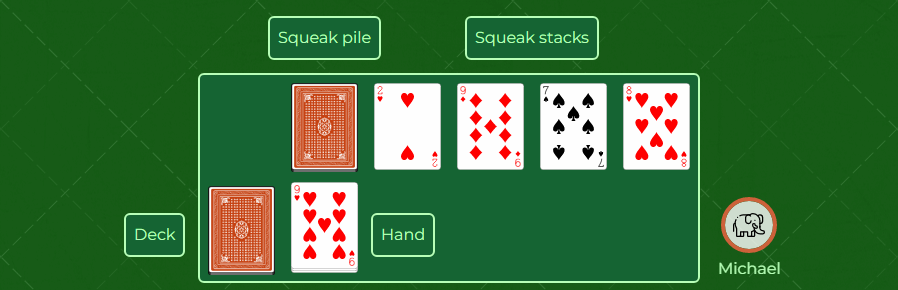
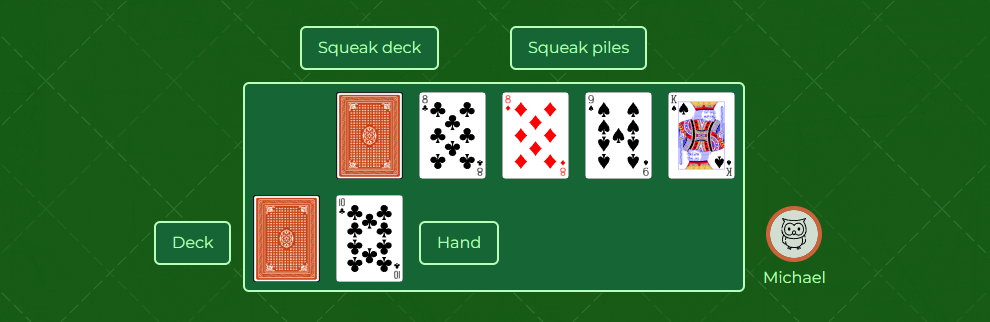
updated language of tutorial + updated playerContainer img

diff --git a/src/components/modals/TutorialModal.tsx b/src/components/modals/TutorialModal.tsx
@@ -6,7 +6,7 @@ import { IoClose } from "react-icons/io5";
 import { AiOutlineInfoCircle } from "react-icons/ai";
 import { HiExternalLink } from "react-icons/hi";
 import useOnClickOutside from "../../hooks/useOnClickOutside";
-
+import { IoMdHeart } from "react-icons/io";
 import labeledPlayerContainer from "../../../public/tutorial/labeledPlayerContainer.png";
 import boardPlacementExample from "../../../public/tutorial/boardPlacementExample.png";
 import squeakStackPlacementExample from "../../../public/tutorial/squeakStackPlacementExample.png";
@@ -90,14 +90,14 @@ function TutorialModal({ setShowModal }: ITutorialModal) {
                   Nerts
                   <HiExternalLink size={"1.25rem"} />
                 </a>
-                . Games can be played with 2-4 players, each player starting
+                . Games can be played with 2-4 players, where each player starts
                 with a regular deck of cards. After shuffling, each player
-                places 13 cards in their &quot;Squeak pile&quot;, with an
+                places 13 cards in their &quot;Squeak deck&quot;, with an
                 additional four cards face up beside it. These four cards will
-                be referred to as the player&apos;s &quot;Squeak stacks&quot;.
-                Cards are drawn three at a time, however only the top card from
-                these three is immediately available for play. The player&apos;s
-                remaining deck stays below their Squeak pile as shown below.
+                be referred to as the player&apos;s &quot;Squeak piles&quot;.
+                Cards are drawn from the player&apos;s hand to their deck three
+                at a time, however only the top card from the player&apos;s hand
+                is available for play.
               </p>
             </div>
 
@@ -129,10 +129,10 @@ function TutorialModal({ setShowModal }: ITutorialModal) {
             className="w-auto p-4 text-sm lg:w-[1000px] lg:text-base"
           >
             The goal of each round is to accrue as many points as possible and
-            empty your Squeak pile, which reveals your &quot;Squeak&quot;
-            button. When pressed, it ends the round and adds ten extra points to
-            your total. You may delay pressing the Squeak button if you think
-            you can still get more points.
+            empty your Squeak deck, which reveals your Squeak button. When
+            pressed, it ends the round and adds ten extra points to your total.
+            You may delay pressing the Squeak button if you think you can still
+            get more points.
           </p>
         </fieldset>
 
@@ -160,9 +160,27 @@ function TutorialModal({ setShowModal }: ITutorialModal) {
                 <p>
                   To earn points, you must place cards on piles on the board.
                   Each pile must start with an ace, and every card placed
-                  afterwards on that pile must be of the same suit and be one
-                  value higher than the previous card (ex. Ace of Hearts, 2 of
-                  Hearts, 3 of Hearts). Each card placed is worth one point.
+                  afterwards on that pile must be of the{" "}
+                  <span className="font-semibold underline underline-offset-2">
+                    same suit
+                  </span>{" "}
+                  and be{" "}
+                  <span className="font-semibold underline underline-offset-2">
+                    one rank higher
+                  </span>{" "}
+                  than the previous card (ex. A
+                  <span className="inline-flex font-semibold underline underline-offset-2">
+                    <IoMdHeart size="0.8rem" />
+                  </span>{" "}
+                  , 2
+                  <span className="inline-flex font-semibold underline underline-offset-2">
+                    <IoMdHeart size="0.8rem" />
+                  </span>{" "}
+                  , 3
+                  <span className="inline-flex font-semibold underline underline-offset-2">
+                    <IoMdHeart size="0.8rem" />
+                  </span>
+                  ). Each card placed is worth one point.
                 </p>
                 <Image
                   src={boardPlacementExample}
@@ -183,8 +201,8 @@ function TutorialModal({ setShowModal }: ITutorialModal) {
               </div>
               <div className="baseVertFlex w-full gap-4">
                 <p>
-                  You may place cards on your squeak stacks as well, however
-                  each card must be of{" "}
+                  You may place cards on your squeak piles as well, however each
+                  card must be of{" "}
                   <span className="font-semibold underline underline-offset-2">
                     opposite color
                   </span>{" "}
@@ -194,9 +212,9 @@ function TutorialModal({ setShowModal }: ITutorialModal) {
                   </span>{" "}
                   than the previous card, similar to Solitaire (ex. Jack of
                   Spades, 10 of Hearts, 9 of Clubs). Only the last card in your
-                  squeak stack is able to be played on the board, however you
-                  can move sections of one stack to another as long as the
-                  stacking rules are followed.
+                  squeak pile is able to be played on the board, however you can
+                  move a group of cards between piles as long as the stacking
+                  rules are followed.
                 </p>
                 <Image
                   src={squeakStackPlacementExample}
